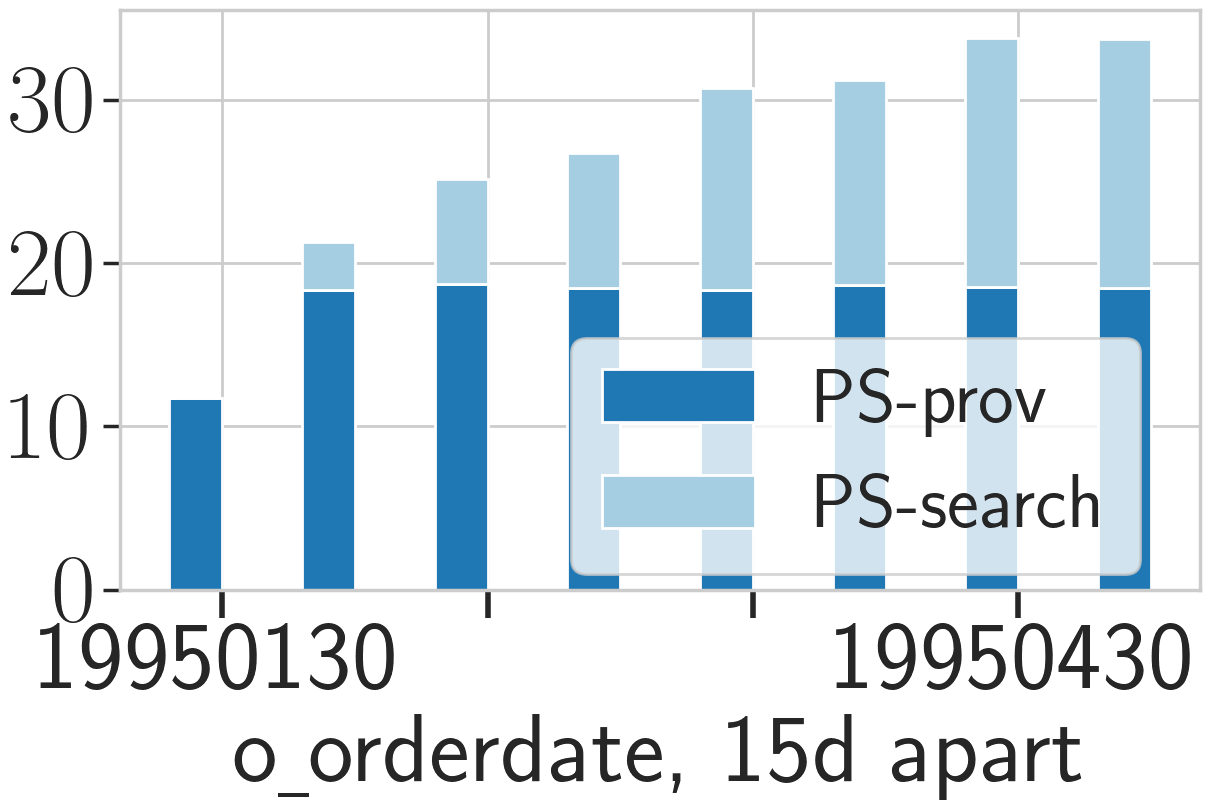
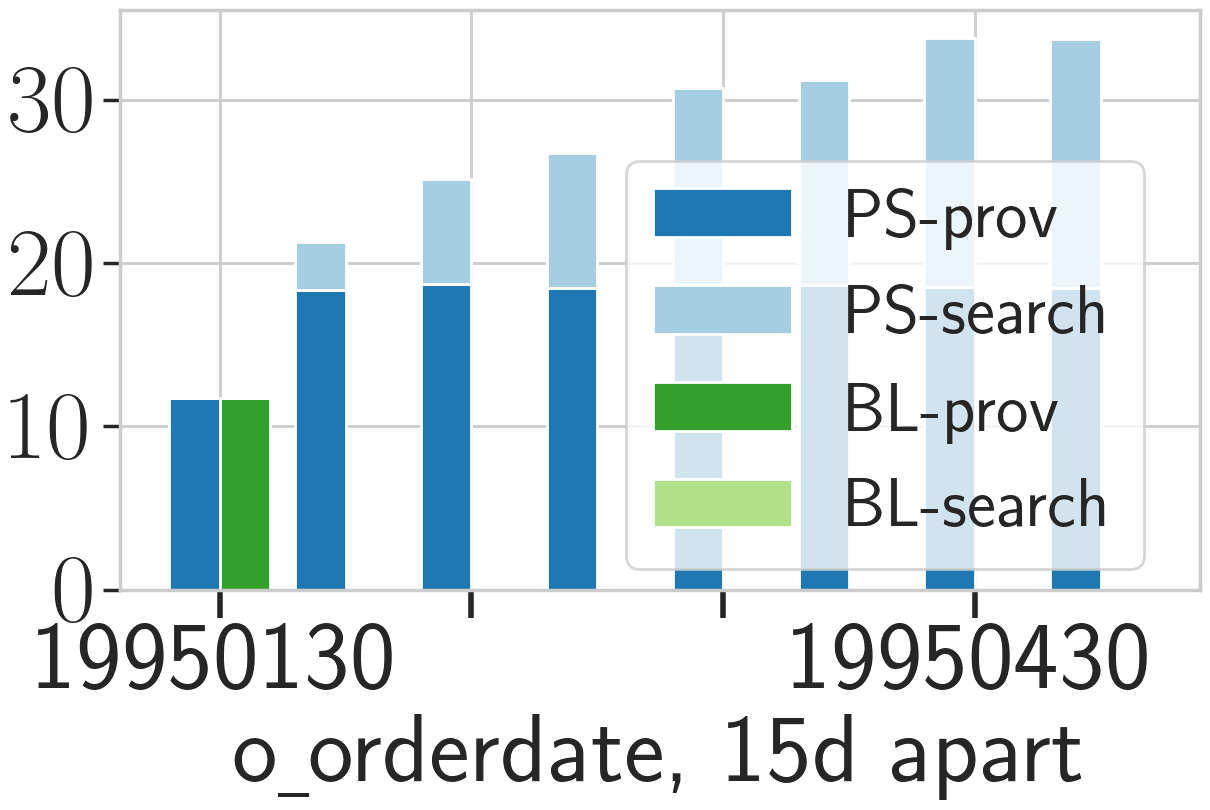
fix fig

diff --git a/Experiment/TPCH/1G/query_selectivity/q3_contract/fig.py b/Experiment/TPCH/1G/query_selectivity/q3_contract/fig.py
@@ -77,17 +77,17 @@ def run(query, size, constraint):
     plt.bar(index, execution_timeps1, bar_width, color=color[0], label=label[0])
     plt.bar(index, execution_timeps2, bar_width, bottom=execution_timeps1,
             color=color[1], label=label[1])
-    # plt.bar(index + bar_width, execution_timebl1, bar_width, color=color[2], label=label[2])
-    # plt.bar(index + bar_width, execution_timebl2, bar_width, bottom=execution_timebl1,
-    #         color=color[3], label=label[3])
-    #
+    plt.bar(index + bar_width, execution_timebl1, bar_width, color=color[2], label=label[2])
+    plt.bar(index + bar_width, execution_timebl2, bar_width, bottom=execution_timebl1,
+            color=color[3], label=label[3])
+
 
     plt.xticks(np.arange(0, 8, 2) + bar_width/2, x_list, rotation=0, fontsize=70)
     plt.yticks(fontsize=70, weight='bold')
 
     plt.xlabel(r'o\underline{ }orderdate, 15d apart')
     # plt.ylabel('Running time (s)')
-    plt.legend(loc='upper right', bbox_to_anchor=(0.98, 0.5), fontsize=55)
+    plt.legend(loc='upper right', bbox_to_anchor=(0.98, 0.8), fontsize=50)
 
     plt.tight_layout()
     fig_path = "query_selectivity_q" + str(query) + "_" + size + "_" + constraint + ".png"
